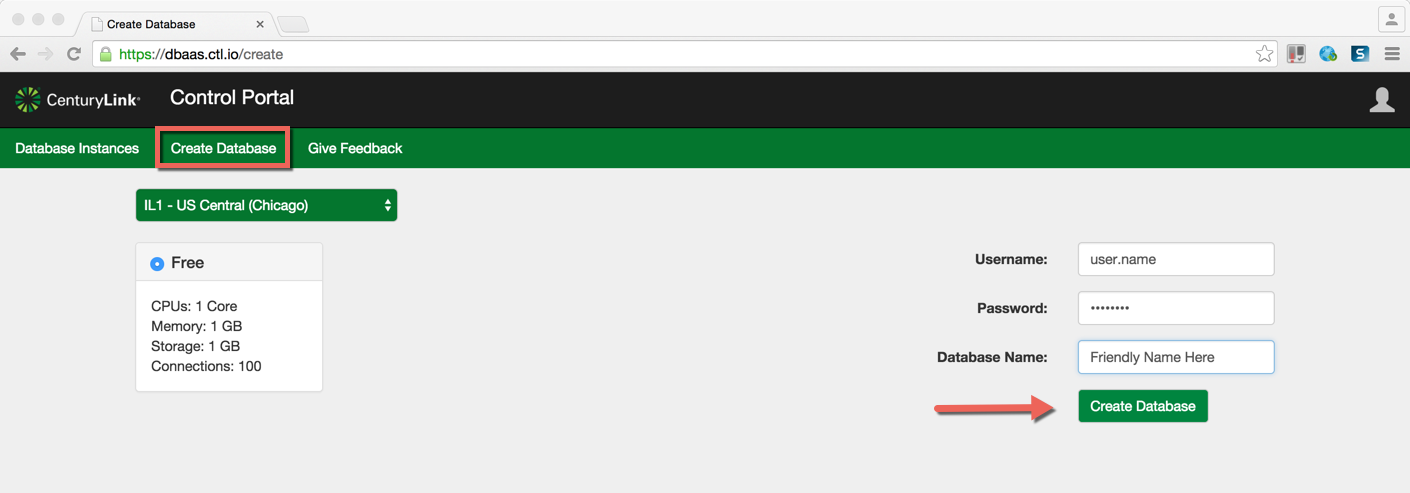
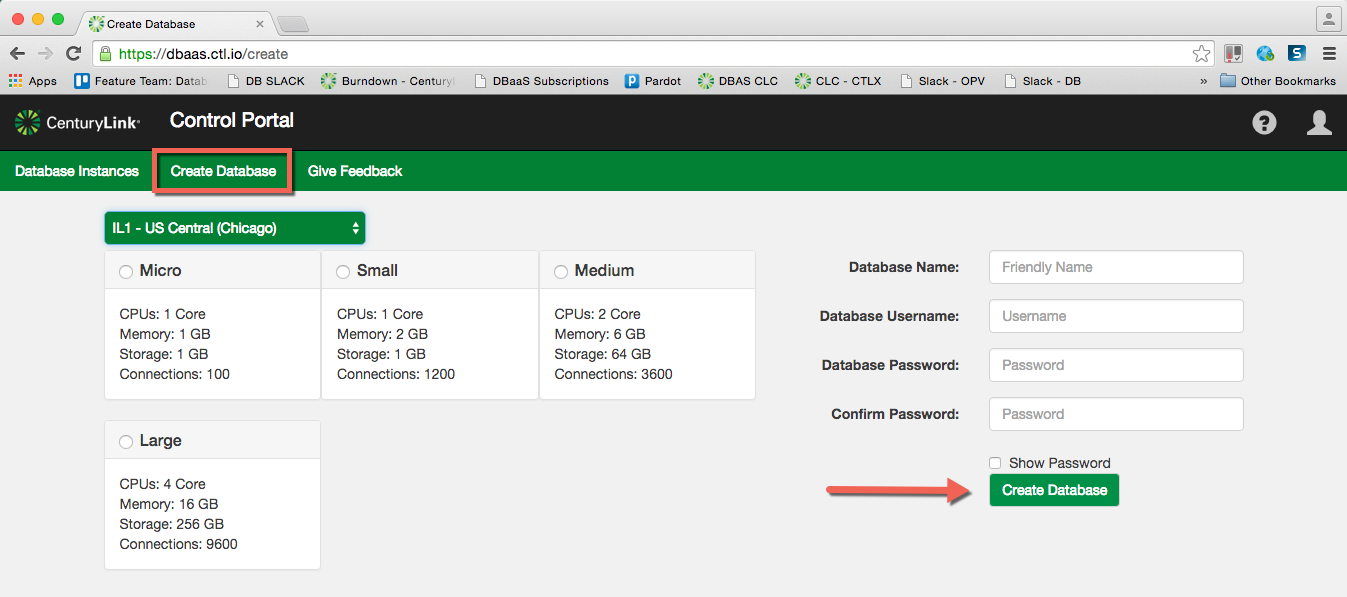
Updating files

diff --git a/Database/getting-started-with-MySQL-DBaaS.md b/Database/getting-started-with-MySQL-DBaaS.md
@@ -15,11 +15,15 @@ During the Limited Beta there is no production Service Level Agreement.
 
 #### Audience
 
-Currently, this article is to support customers in the Limited Beta program.  Additionally, these instructions are specific to provisioning service directly through the DBaas user interface.  
+Currently, this article is to support customers in the Limited Beta program.  Additionally, these instructions are specific to provisioning service directly through the DBaaS user interface.  
 
 ## Overview
 
-Our MySQL Database-as-a-Service limited beta provides instant access to a single MySQL-compatible database instance with SSL support, daily backups held locally for 7 days and basic monitoring.  The free beta is limited to a 1vCPU/1GB database instance with up to 100 MB storage and support for 100 concurrent connections in IL1 datacenter.
+Our MySQL Database-as-a-Service limited beta provides instant access to a single MySQL-compatible database instance with SSL support, daily backups held for 7 days and basic monitoring.  The free beta allows a user to choose from 4 different sized plans, as follows:
+
+**Micro**|**Small**|**Medium**|**Large**
+-----------|-----------|--------------|------------
+CPUs: 1 Core<br>Memory: 1 GB<br>Storage: 1 GB<br>Connections: 100|CPUs: 1 Core<br>Memory: 2 GB<br>Storage: 1 GB<br>Connections: 1200|CPUs: 2 Core<br>Memory: 6 GB<br>Storage: 64 GB<br>Connections: 3600|CPUs: 4 Core<br>Memory: 16 GB<br>Storage: 256 GB<br>Connections: 9600
 
 #### Prerequisites
 
@@ -36,9 +40,9 @@ Our MySQL Database-as-a-Service limited beta provides instant access to a single
 
 4.	Select datacenter from the drop-down menu, choose a plan, select your username and password for the database and enter a name for the database.  Click “Create Database”.  ![CreateDB](../images/dbaas-createdb-beta.png)
 
-5.  When created, you will be returned your database information including connection string and can choose to download your certificate at that time. ![ListDB](../images/dbaas-dblist-beta.png)
+5.  When created, you will be returned your database information including connection string and can choose to download your certificate at that time. ![DBDetails](../images/dbaas-dbdetails-beta.png)
 
-6.  You can view a list of all your database subscriptions with connection string info on the "Database Instances" tab.  You can also download your certificate from this list at any time.
+6.  You can view a list of all your database subscriptions with connection string info on the "Database Instances" tab.  From this screen, you can also download your certificate or delete your subscription and can filter on active or terminated instances.  ![ListDB](../images/dbaas-dblist-beta.png)
 
 7.  Use the provided connection string information to administer your MySQL instance using standard command line interface from your favorite MySQL client.
 
